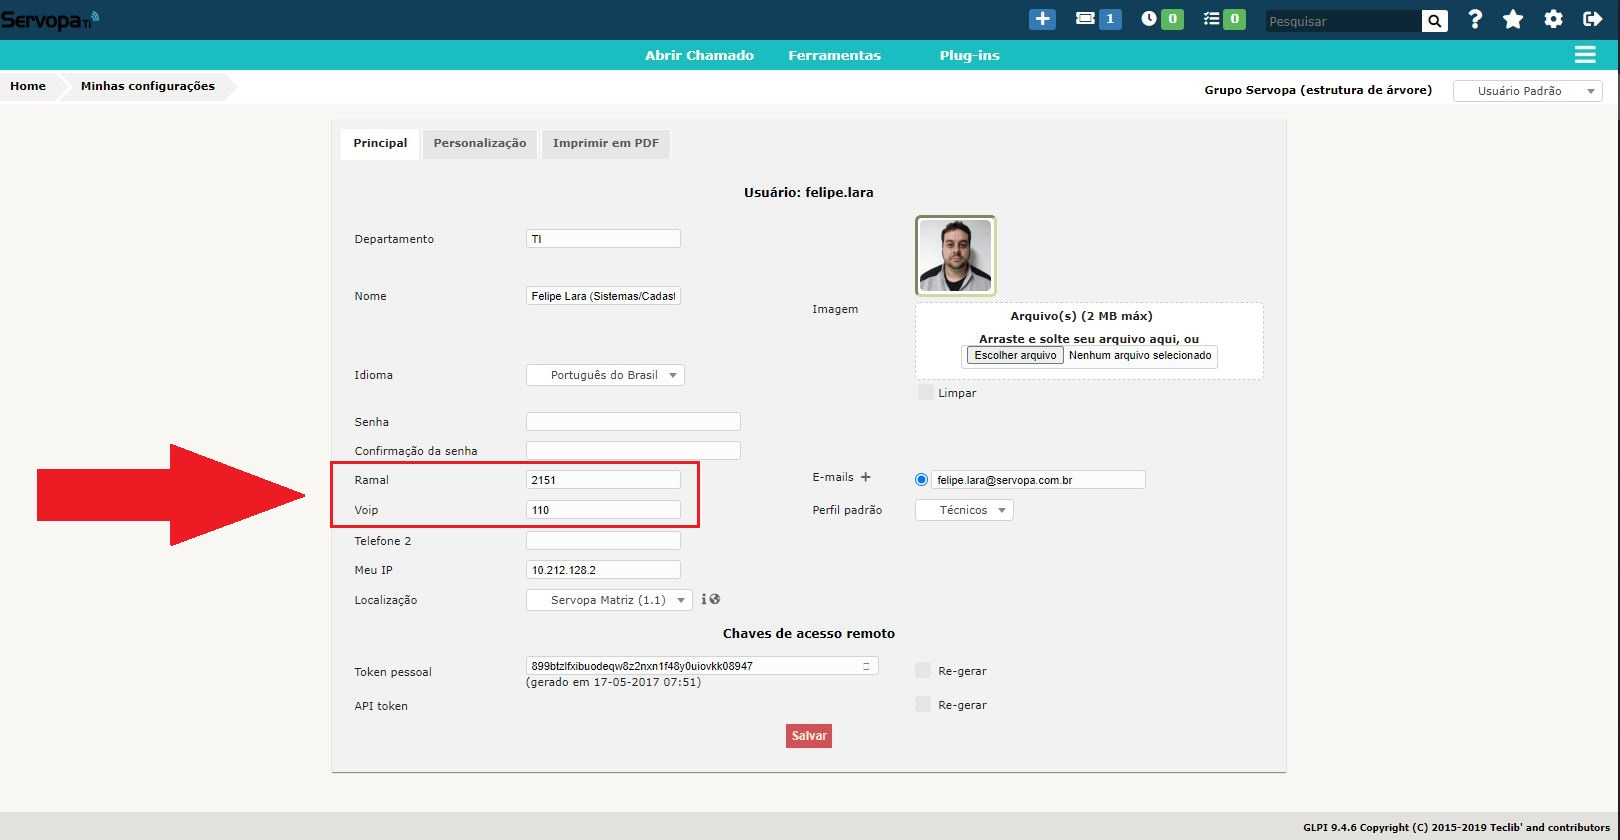
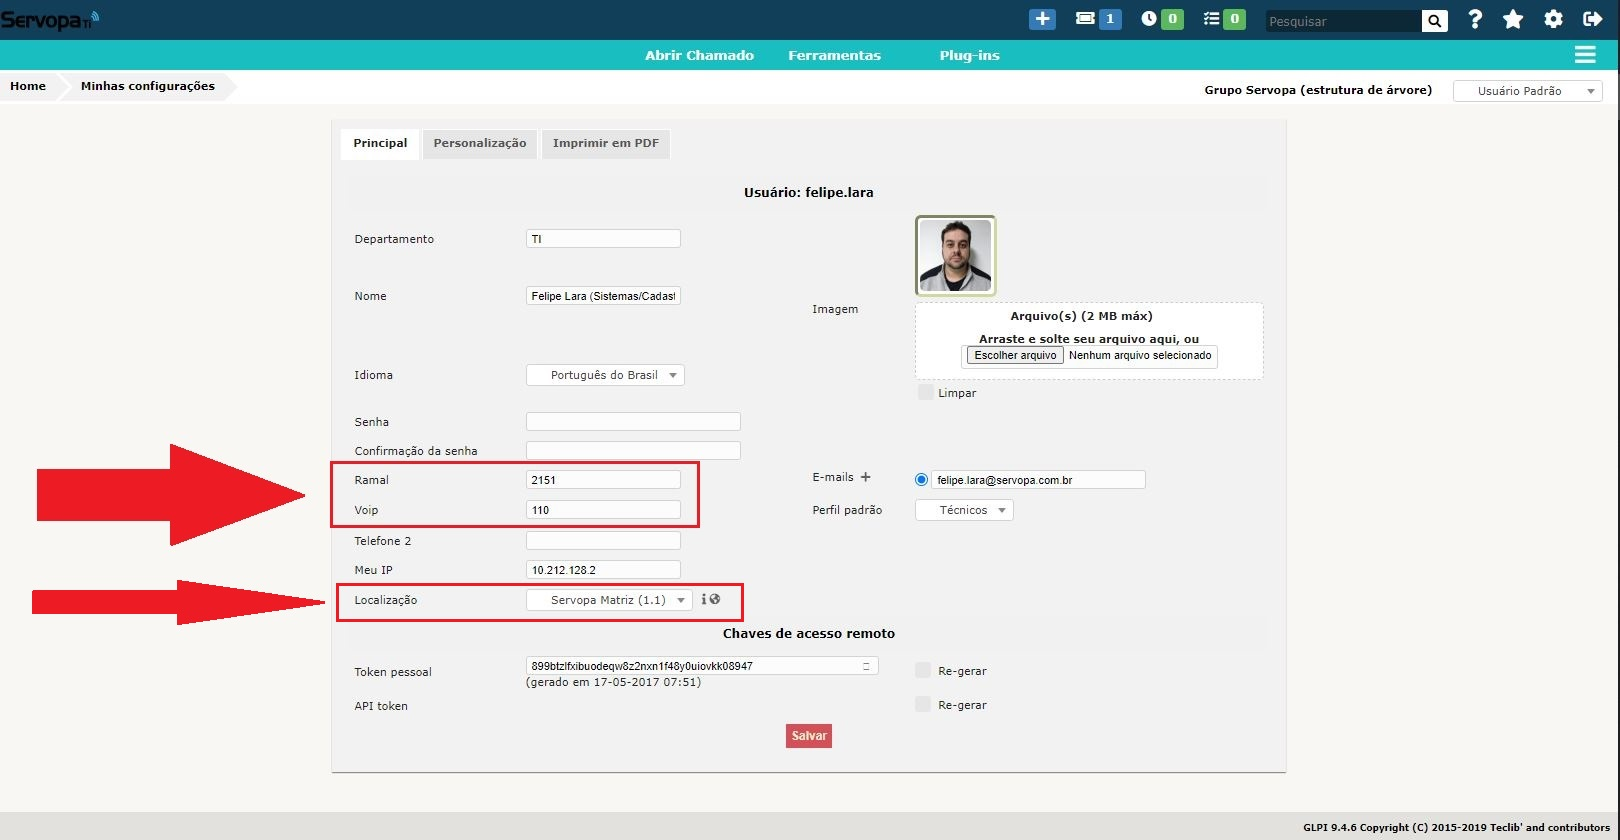
Atualize sua localização
Incluido mais um alerta

Changed region(s): [[0.0, 0.681, 0.463, 0.7429]]

diff --git a/atualizeRamal.html b/atualizeRamal.html
@@ -7,50 +7,63 @@
     <title>Atualizar Ramal</title>
     <link rel="stylesheet" href="https://stackpath.bootstrapcdn.com/bootstrap/4.5.2/css/bootstrap.min.css"
         integrity="sha384-JcKb8q3iqJ61gNV9KGb8thSsNjpSL0n8PARn9HuZOnIxN0hoP+VmmDGMN5t9UJ0Z" crossorigin="anonymous">
-        <style>
-            div.imgGLPI {
-    text-align: center;
-}
-            img.imgGLPI {
-    width: 50%;
-}
-h1 {
-    text-align: center;
-    text-transform: uppercase;
-    color: red;
-}
-        </style>
+    <style>
+        div.imgGLPI {
+            text-align: center;
+        }
+
+        img.imgGLPI {
+            width: 50%;
+        }
+
+        h1 {
+            text-align: center;
+            text-transform: uppercase;
+        }
+
+        .red {
+            color: red;
+        }
+    </style>
 </head>
 
 <body>
     <div id="titulo">
-        <h1>Como eu atualizo o meu Ramal?</h1>
+        <h1 class="red">Como eu atualizo o meu Ramal?</h1>
     </div>
     <div class="descricao">
         <ul class="list-group list-group-flush">
             <li class="list-group-item">
                 <h3>1º - LOGAR NO GLPI</h3>
                 <p>acesse o seu GLPI (Sistema de Chamados) e realize o seu LOGIN - <a
-                        href="http://rede.paranapart.com.br/glpi" class="cliqueAqui" target="_blank">Clique Aqui</a> para
+                        href="http://rede.paranapart.com.br/glpi" class="cliqueAqui" target="_blank">Clique Aqui</a>
+                    para
                     que possamos te enviar até lá.</p>
                 <div class="imgGLPI">
-                    <img src="img/icones/loginGLPI.JPG" alt="Login GLPI" class="imgGLPI">
+                    <a href="img/icones/loginGLPI.JPG" class="ampliarIMG" target="_blank">
+                        <img src="img/icones/loginGLPI.JPG" alt="Login GLPI" class="imgGLPI">
+                    </a>
                 </div>
                 <p>Caso não lembra ou não tenha o acesso, basta entrar em contato com o TI que te auxiliamos. <a
                         href="http://10.100.1.217/lista/filiais/index.php?locations=4&dep=TI" class="cliqueAqui"
                         target="_blank">CLIQUE AQUI</a> para saber quais são os números!</p>
             </li>
             <li class="list-group-item">
-                <h3>2º - ATUALIZE O RAMAL!</h3>
+                <h3>2º - ATUALIZE O RAMAL E LOCALIZAÇÃO!</h3>
             </li>
             <li class="list-group-item">
                 <p>Clique na engrenagem que fica no canto superior direito:</p>
                 <div class="imgGLPI">
-                    <img src="img/icones/EngrenagemGLPI.JPG" alt="Login GLPI" class="imgGLPI">
+                    <a href="img/icones/EngrenagemGLPI.JPG" class="ampliarIMG" target="_blank">
+                        <img src="img/icones/EngrenagemGLPI.JPG" alt="EngrenagemGLPI" class="imgGLPI">
+                    </a>
                 </div>
-                <p>Agora basta localizar os campos de Ramal e VOIP alterar e clicar em SALVAR!</p>
+                <p>Agora basta localizar os campos de <b class="red">RAMAL</b> e <b class="red">VOIP</b> E <b
+                        class="red">LOCALIZAÇÃO</b> alterar e clicar em SALVAR!</p>
                 <div class="imgGLPI">
-                    <img src="img/icones/FormularioGLPI.JPG" alt="Login GLPI" class="imgGLPI">
+                    <a href="img/icones/FormularioGLPI.JPG" class="ampliarIMG" target="_blank">
+                        <img src="img/icones/FormularioGLPI.JPG" alt="FormularioGLPI" class="imgGLPI">
+                    </a>
                 </div>
                 <div class="footer">
                     <p class="text-left">Viu como é facil!! Então não deixe ele desatualizado.</p>
